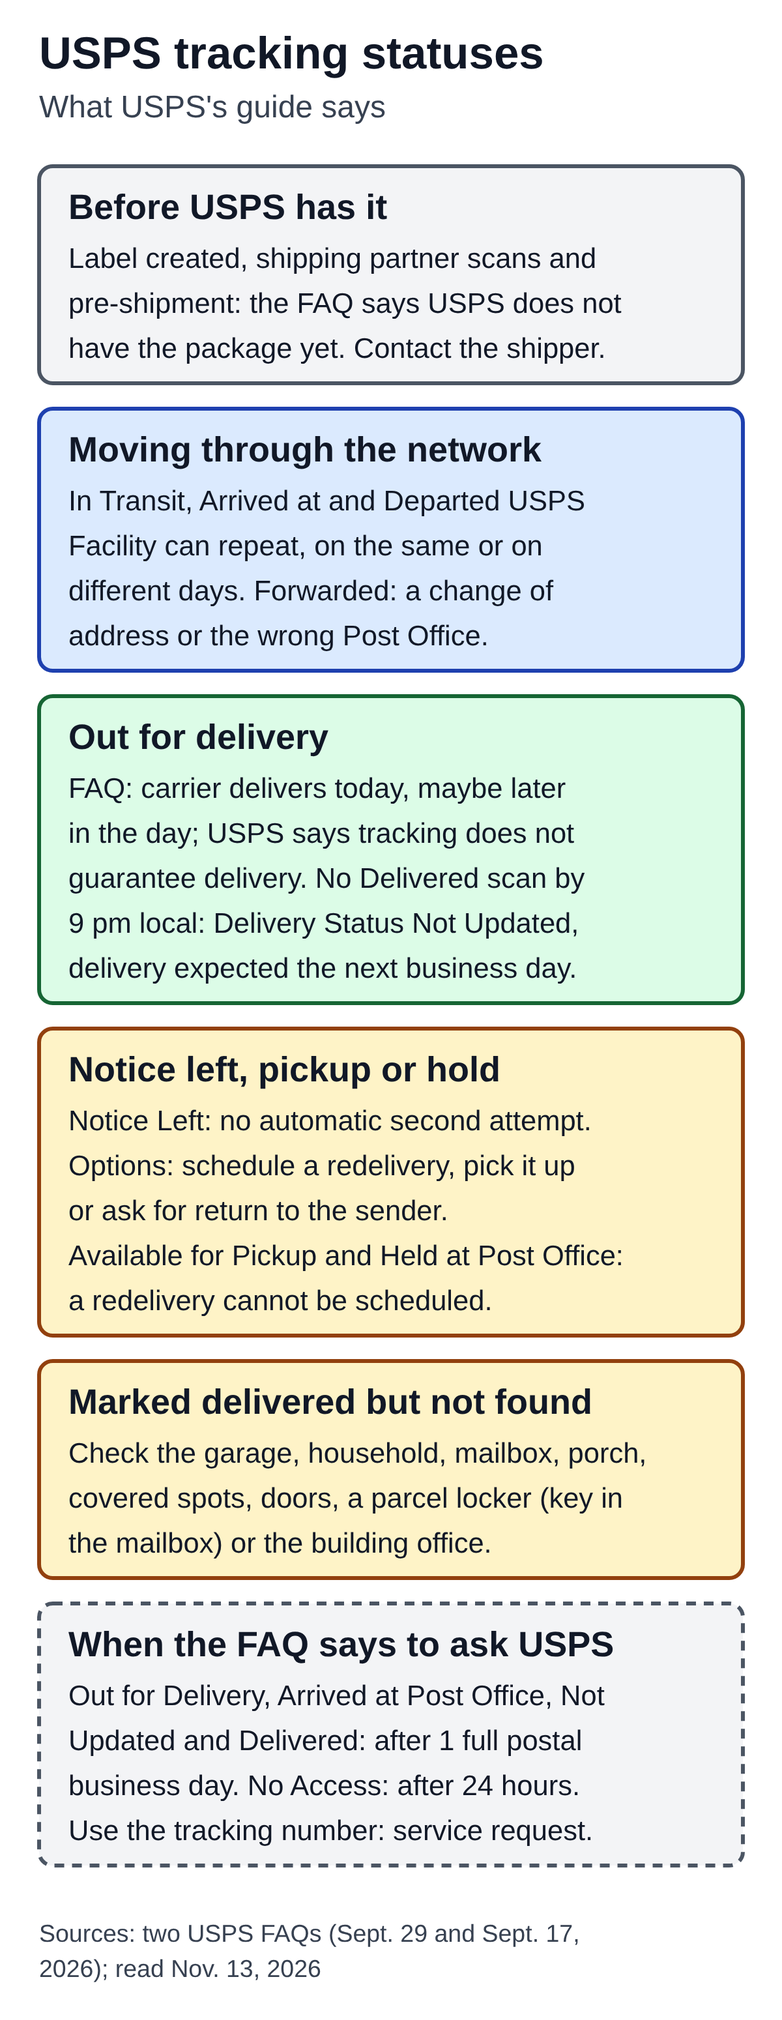
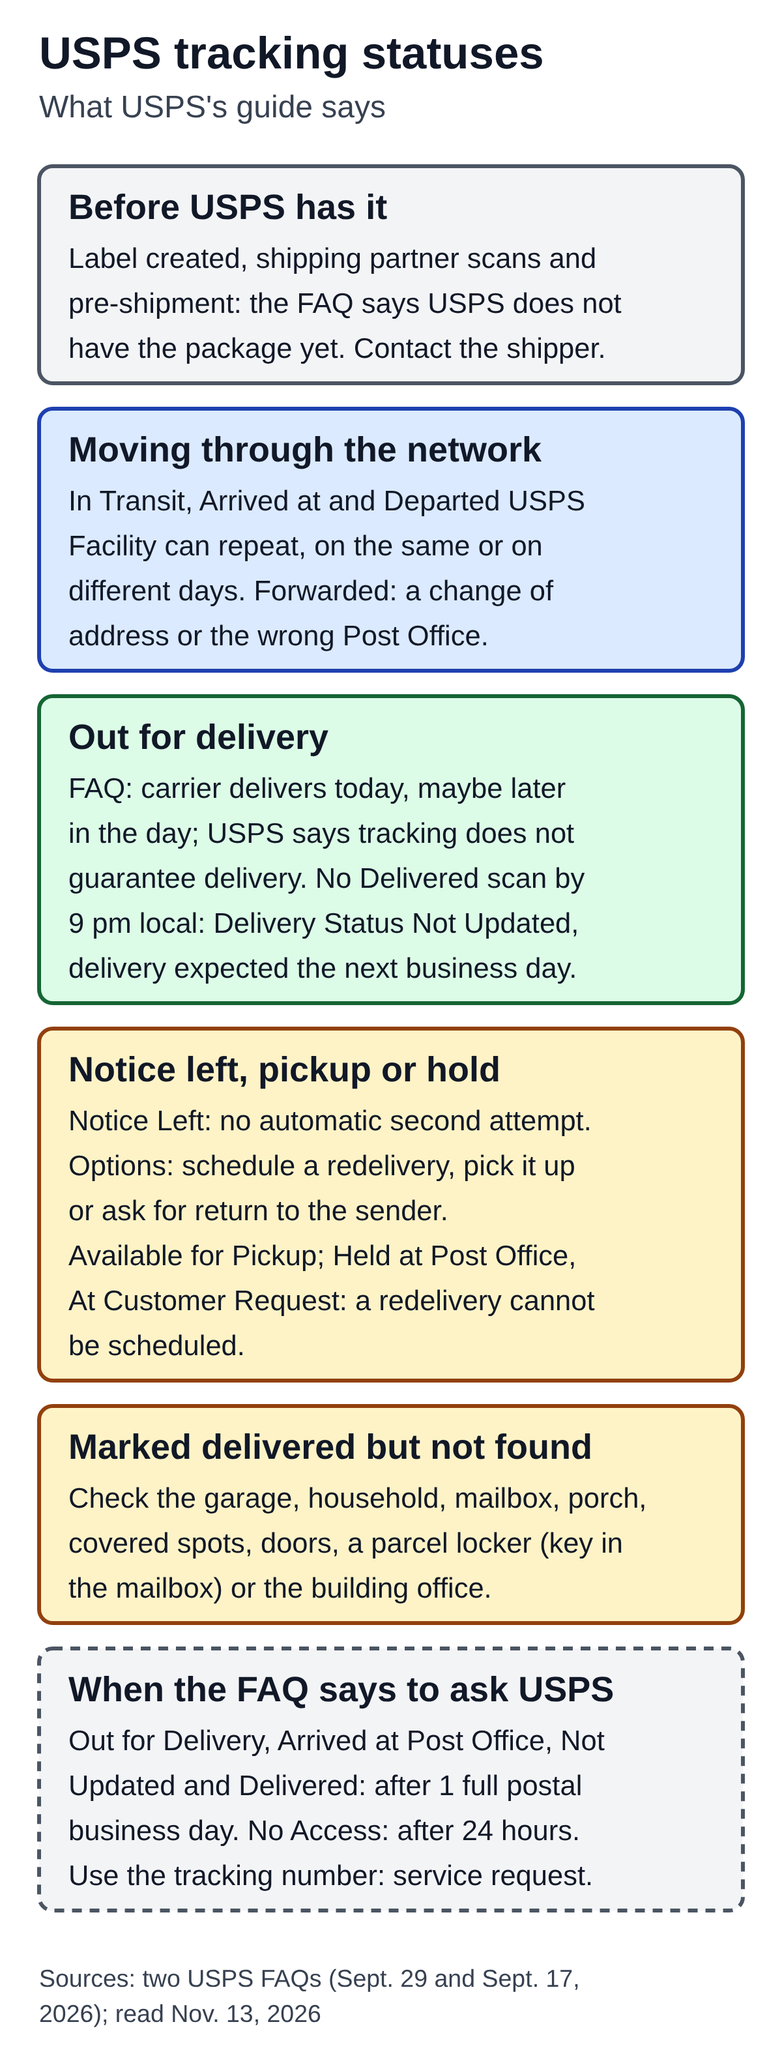
Apply Gate 2 re-check fixes: full Held status name; minor passport scope
Tracking: diagram, alt and body use "Held at Post Office, At Customer Request".
Passport: diagram and alt say a passport issued under 16 is not renewable; body
notes USPS.com's minor sentence gives no age and limits the reading to under 16.

Claude-Session: https://claude.ai/code/session_01BXtGEA3Qzg6u2ejRb8jbFU

diff --git a/content/drafts/usps-passport-services-what-the-post-office-does.md b/content/drafts/usps-passport-services-what-the-post-office-does.md
@@ -8,7 +8,7 @@ status: draft
 date: 2026-11-13
 internal_link_candidates: real-id-to-fly-what-tsa-accepts (linked once in the body; decide at Gate 2)
 image: assets/optimized/usps-passport-services-what-the-post-office-does.png
-image_alt: "Diagram of what the USPS pages say about passport services. What passport Post Offices do: thousands of Post Offices accept first-time passport applications and most of those also take photos; the Postal Service reviews the application and forwards it to the State Department. What it does not do: does not issue passports or hand them out, because the State Department mails them; no renewals in person according to USPS.com; the FAQ points renewals, lost or stolen passports and name changes to the State Department. Apply in person if (FAQ list): first passport; child under 16; the last one issued under 16 or over 15 years ago, or lost, stolen or damaged; or a name change you cannot document. Renew by mail or online: USPS.com says if you can renew by mail or online, you must, and you cannot renew in person; expedited renewal service is by mail; for urgent travel USPS.com points to a State Department appointment; a child's passport is not renewable. Appointments: USPS.com says book online, at a lobby kiosk or a retail counter, with limited walk-in hours at select locations; the FAQ adds booking by phone; renewals cannot be booked in the scheduler. After you apply: processing starts when the State Department gets the application; it mails the passport, sometimes apart from your documents. Sources: USPS.com passports page (no date) and USPS FAQ (Nov. 5, 2026), read Nov. 13, 2026; State Department pages not read here, so check them."
+image_alt: "Diagram of what the USPS pages say about passport services. What passport Post Offices do: thousands of Post Offices accept first-time passport applications and most of those also take photos; the Postal Service reviews the application and forwards it to the State Department. What it does not do: does not issue passports or hand them out, because the State Department mails them; no renewals in person according to USPS.com; the FAQ points renewals, lost or stolen passports and name changes to the State Department. Apply in person if (FAQ list): first passport; child under 16; the last one issued under 16 or over 15 years ago, or lost, stolen or damaged; or a name change you cannot document. Renew by mail or online: USPS.com says if you can renew by mail or online, you must, and you cannot renew in person; expedited renewal service is by mail; for urgent travel USPS.com points to a State Department appointment; a passport issued under 16 is not renewable. Appointments: USPS.com says book online, at a lobby kiosk or a retail counter, with limited walk-in hours at select locations; the FAQ adds booking by phone; renewals cannot be booked in the scheduler. After you apply: processing starts when the State Department gets the application; it mails the passport, sometimes apart from your documents. Sources: USPS.com passports page (no date) and USPS FAQ (Nov. 5, 2026), read Nov. 13, 2026; State Department pages not read here, so check them."
 ---
 
 # USPS Passport Services: What the Post Office Does and Does Not Handle
@@ -17,7 +17,7 @@ image_alt: "Diagram of what the USPS pages say about passport services. What pas
 
 This article covers two USPS pages: the USPS.com page "Passports" (the page titled "Passport Appointments, Renewals, & Photo Services"; no update date shown) and the USPS FAQ "U.S. Passports - The Basics" (Article 000007488, dated November 5, 2026). The wording is as of November 13, 2026. The passport rules belong to the State Department. Its pages (travel.state.gov) could not be read in full for this article, so everything below is what USPS says, not what the State Department says, and eligibility details and exceptions should be checked there: see the State Department's pages on [applying in person as an adult](https://travel.state.gov/en/passports/apply/adults.html) and [renewing by mail](https://travel.state.gov/en/passports/renew-replace/mail.html) (linked as pointers; this article does not rely on their text). The pages list fees; this article gives no prices. It does not cover expedited processing in detail, passport cards beyond one line, lost or stolen passports, international travel rules, or processing times.
 
-![Diagram of what the USPS pages say about passport services. What passport Post Offices do: thousands of Post Offices accept first-time passport applications and most of those also take photos; the Postal Service reviews the application and forwards it to the State Department. What it does not do: does not issue passports or hand them out, because the State Department mails them; no renewals in person according to USPS.com; the FAQ points renewals, lost or stolen passports and name changes to the State Department. Apply in person if (FAQ list): first passport; child under 16; the last one issued under 16 or over 15 years ago, or lost, stolen or damaged; or a name change you cannot document. Renew by mail or online: USPS.com says if you can renew by mail or online, you must, and you cannot renew in person; expedited renewal service is by mail; for urgent travel USPS.com points to a State Department appointment; a child's passport is not renewable. Appointments: USPS.com says book online, at a lobby kiosk or a retail counter, with limited walk-in hours at select locations; the FAQ adds booking by phone; renewals cannot be booked in the scheduler. After you apply: processing starts when the State Department gets the application; it mails the passport, sometimes apart from your documents. Sources: USPS.com passports page (no date) and USPS FAQ (Nov. 5, 2026), read Nov. 13, 2026; State Department pages not read here, so check them.](assets/optimized/usps-passport-services-what-the-post-office-does.png)
+![Diagram of what the USPS pages say about passport services. What passport Post Offices do: thousands of Post Offices accept first-time passport applications and most of those also take photos; the Postal Service reviews the application and forwards it to the State Department. What it does not do: does not issue passports or hand them out, because the State Department mails them; no renewals in person according to USPS.com; the FAQ points renewals, lost or stolen passports and name changes to the State Department. Apply in person if (FAQ list): first passport; child under 16; the last one issued under 16 or over 15 years ago, or lost, stolen or damaged; or a name change you cannot document. Renew by mail or online: USPS.com says if you can renew by mail or online, you must, and you cannot renew in person; expedited renewal service is by mail; for urgent travel USPS.com points to a State Department appointment; a passport issued under 16 is not renewable. Appointments: USPS.com says book online, at a lobby kiosk or a retail counter, with limited walk-in hours at select locations; the FAQ adds booking by phone; renewals cannot be booked in the scheduler. After you apply: processing starts when the State Department gets the application; it mails the passport, sometimes apart from your documents. Sources: USPS.com passports page (no date) and USPS FAQ (Nov. 5, 2026), read Nov. 13, 2026; State Department pages not read here, so check them.](assets/optimized/usps-passport-services-what-the-post-office-does.png)
 
 ## What the Post Office does, and what it does not
 
@@ -31,7 +31,7 @@ USPS.com opens with a shorter version: "Thousands of Post Offices™ accept firs
 
 The FAQ lists when you must apply in person using Form DS-11. It is enough if at least one of these is true: you are applying for your first U.S. passport; you are under age 16; your previous passport was issued when you were under 16; your previous passport was lost, stolen or damaged; your previous passport was issued more than 15 years ago; or your name has changed since the passport was issued and you cannot legally document the name change. It adds that if none of those apply, "you may be eligible to Renew by Mail using Form DS-82." The State Department's page on [applying in person as an adult](https://travel.state.gov/en/passports/apply/adults.html) is the place to check the full eligibility rules and exceptions; this article could not read it.
 
-For minors, the FAQ says a child under 16 must apply in person with both parents or guardians, who must show their relationship to the child, present acceptable identification and give consent. A 16- or 17-year-old must appear in person and may need a parent or guardian to show photo ID and establish parental consent. USPS.com says "Passports for children under 16 have special requirements," and that a minor's passport "cannot be 'renewed'": each time it expires, you submit a new first-time application in person.
+For minors, the FAQ says a child under 16 must apply in person with both parents or guardians, who must show their relationship to the child, present acceptable identification and give consent. A 16- or 17-year-old must appear in person and may need a parent or guardian to show photo ID and establish parental consent. USPS.com says "Passports for children under 16 have special requirements." Separately, in its renewal text, it says a minor's passport "cannot be 'renewed'" and that each time it expires you submit a new first-time application in person. That sentence does not give an age. The page's renew-by-mail conditions require a passport issued at age 16 or older, and the FAQ's in-person list includes a previous passport issued under 16, so this article reads the sentence as covering passports issued to children under 16 and does not extend it further.
 
 The two pages word the age line a little differently. USPS.com's first-time section says that if you "are 16 or under" you need to apply in person, while the FAQ says "under age 16" and then lists 16- and 17-year-olds separately as also having to appear in person. This article does not resolve that; it shows both wordings.
 

diff --git a/content/drafts/usps-tracking-status-what-it-means.md b/content/drafts/usps-tracking-status-what-it-means.md
@@ -8,7 +8,7 @@ status: draft
 date: 2026-11-13
 internal_link_candidates: usps-informed-delivery-how-it-works, usps-hold-mail-how-it-works, usps-missing-mail-search-how-it-works, usps-certified-mail-how-it-works, how-to-address-an-envelope-usps, usps-mail-forwarding-how-long (all linked in the body; decide at Gate 2)
 image: assets/optimized/usps-tracking-status-what-it-means.png
-image_alt: "Diagram of what the USPS tracking status guide says. Before USPS has it: label created, shipping partner and pre-shipment statuses; the FAQ says USPS does not have the package yet, so contact the shipper. Moving through the network: In Transit, Arrived at USPS Facility and Departed USPS Facility can repeat, on the same or on different days; Forwarded means a change of address or the wrong Post Office. Out for delivery: the FAQ says a carrier delivers it today, maybe later in the day, and USPS says tracking does not guarantee delivery; no Delivered scan by 9 pm local time gives Delivery Status Not Updated, with delivery expected the next business day. Notice left, pickup or hold: Notice Left has no automatic second attempt, and the options are to schedule a redelivery, pick it up or ask for return to the sender; for Available for Pickup and Held at Post Office a redelivery cannot be scheduled. Marked delivered but not found: check the garage, household, mailbox, porch, covered spots, doors, a parcel locker (key in the mailbox) or the building office. When the FAQ says to ask USPS: Out for Delivery, Arrived at Post Office, Delivery Status Not Updated and Delivered after 1 full postal business day; No Access to Delivery Location after 24 hours; use the tracking number to submit a service request. Sources: two USPS FAQs dated Sept. 29 and Sept. 17, 2026, read Nov. 13, 2026."
+image_alt: "Diagram of what the USPS tracking status guide says. Before USPS has it: label created, shipping partner and pre-shipment statuses; the FAQ says USPS does not have the package yet, so contact the shipper. Moving through the network: In Transit, Arrived at USPS Facility and Departed USPS Facility can repeat, on the same or on different days; Forwarded means a change of address or the wrong Post Office. Out for delivery: the FAQ says a carrier delivers it today, maybe later in the day, and USPS says tracking does not guarantee delivery; no Delivered scan by 9 pm local time gives Delivery Status Not Updated, with delivery expected the next business day. Notice left, pickup or hold: Notice Left has no automatic second attempt, and the options are to schedule a redelivery, pick it up or ask for return to the sender; for Available for Pickup and Held at Post Office, At Customer Request a redelivery cannot be scheduled. Marked delivered but not found: check the garage, household, mailbox, porch, covered spots, doors, a parcel locker (key in the mailbox) or the building office. When the FAQ says to ask USPS: Out for Delivery, Arrived at Post Office, Delivery Status Not Updated and Delivered after 1 full postal business day; No Access to Delivery Location after 24 hours; use the tracking number to submit a service request. Sources: two USPS FAQs dated Sept. 29 and Sept. 17, 2026, read Nov. 13, 2026."
 ---
 
 # USPS Tracking Status: What Each One Means and What USPS Says to Do
@@ -17,7 +17,7 @@ image_alt: "Diagram of what the USPS tracking status guide says. Before USPS has
 
 This article covers two USPS FAQ pages: "Where is my package? Tracking Status Help" (Article 000006077, dated September 29, 2026) and "USPS Tracking® - The Basics" (Article 000007991, dated September 17, 2026). The wording is as of November 13, 2026. The status guide lists 27 statuses in five groups; this article follows those groups and spends most of its space on the statuses where the guide tells you to do something. It gives no prices. It does not cover international tracking, claims and refunds, how a service request is handled, or other carriers.
 
-![Diagram of what the USPS tracking status guide says. Before USPS has it: label created, shipping partner and pre-shipment statuses; the FAQ says USPS does not have the package yet, so contact the shipper. Moving through the network: In Transit, Arrived at USPS Facility and Departed USPS Facility can repeat, on the same or on different days; Forwarded means a change of address or the wrong Post Office. Out for delivery: the FAQ says a carrier delivers it today, maybe later in the day, and USPS says tracking does not guarantee delivery; no Delivered scan by 9 pm local time gives Delivery Status Not Updated, with delivery expected the next business day. Notice left, pickup or hold: Notice Left has no automatic second attempt, and the options are to schedule a redelivery, pick it up or ask for return to the sender; for Available for Pickup and Held at Post Office a redelivery cannot be scheduled. Marked delivered but not found: check the garage, household, mailbox, porch, covered spots, doors, a parcel locker (key in the mailbox) or the building office. When the FAQ says to ask USPS: Out for Delivery, Arrived at Post Office, Delivery Status Not Updated and Delivered after 1 full postal business day; No Access to Delivery Location after 24 hours; use the tracking number to submit a service request. Sources: two USPS FAQs dated Sept. 29 and Sept. 17, 2026, read Nov. 13, 2026.](assets/optimized/usps-tracking-status-what-it-means.png)
+![Diagram of what the USPS tracking status guide says. Before USPS has it: label created, shipping partner and pre-shipment statuses; the FAQ says USPS does not have the package yet, so contact the shipper. Moving through the network: In Transit, Arrived at USPS Facility and Departed USPS Facility can repeat, on the same or on different days; Forwarded means a change of address or the wrong Post Office. Out for delivery: the FAQ says a carrier delivers it today, maybe later in the day, and USPS says tracking does not guarantee delivery; no Delivered scan by 9 pm local time gives Delivery Status Not Updated, with delivery expected the next business day. Notice left, pickup or hold: Notice Left has no automatic second attempt, and the options are to schedule a redelivery, pick it up or ask for return to the sender; for Available for Pickup and Held at Post Office, At Customer Request a redelivery cannot be scheduled. Marked delivered but not found: check the garage, household, mailbox, porch, covered spots, doors, a parcel locker (key in the mailbox) or the building office. When the FAQ says to ask USPS: Out for Delivery, Arrived at Post Office, Delivery Status Not Updated and Delivered after 1 full postal business day; No Access to Delivery Location after 24 hours; use the tracking number to submit a service request. Sources: two USPS FAQs dated Sept. 29 and Sept. 17, 2026, read Nov. 13, 2026.](assets/optimized/usps-tracking-status-what-it-means.png)
 
 ## What USPS Tracking does and does not promise
 

diff --git a/editorial/qa/usps-passport-services-what-the-post-office-does.md b/editorial/qa/usps-passport-services-what-the-post-office-does.md
@@ -59,3 +59,7 @@ One H1, H2 sections, no table (the sections are prose), a bulleted list only for
 **Open point (not resolved, not stated in the article):** the paraphrased State Department page mentions an appointment rule for travel in under 3 weeks (a window of 14 calendar days), while USPS.com's own heading is "Urgent Travel in Less than 10 Weeks". The paraphrase is unverified, so this may be a summarizing error or a real difference between the pages. That is why the article repeats neither threshold. Re-check both State Department pages directly (a person or a browser that passes the challenge) before publishing, and add the comparison to the article if confirmed.
 
 Image: re-rendered (render check `[]`, viewed in crops); C2PA stripped on the device; PNG 596,737 bytes (`ee4591c3…`), SVG 4,683 bytes (`9b330dc1…`), hashes equal the originals. Front-matter alt equals the body alt (script). Changed parts only: the lead, the meta description, the scope paragraph, two sentences in the role and in-person sections, the renewal sentence, the new expedited section, the Sources list, the first and fourth diagram cards, the footer and the alt.
+
+## Gate 2 re-check on `8953bd9` (2026-11-13)
+
+FIX: "A child's passport is not renewable" (diagram card and alt) read as covering every minor. USPS.com's wording is "A minor's passport cannot be 'renewed'. Instead, each time a minor's passport expires, you must submit a new, first-time passport application in person" and it gives no age in that sentence; its minors heading says "Passports for children under 16 have special requirements"; its renew-by-mail conditions require a passport "issued when you were age 16 or older"; the FAQ's in-person list includes a previous passport issued under 16 (all found at Gate 1). Fixed: the diagram card and the alt now say "A passport issued under 16 is not renewable"; the body keeps USPS's words ("a minor's passport"), says the sentence gives no age, and says the article reads it as covering passports issued to children under 16 and does not extend it further. No other body sentence says a child's or minor's passport is not renewable. The reviewer confirmed the participating Post Offices and photos scope, the expedited/urgent split and the State Department links; the urgent travel dates stay out, pointing to the State Department. Image re-rendered (render check `[]`), C2PA stripped; PNG 600,000 bytes (`686f50fc…`), SVG 4,691 bytes (`eea77db5…`), hashes equal the originals; front-matter alt equals the body alt.

diff --git a/docs/decision-log.md b/docs/decision-log.md
@@ -1475,3 +1475,7 @@ Both drafts, source notes, QA records (Gate 1: 20 of 20 and 19 of 19 claims; scr
 Tracking status: the reviewer could not open the two USPS FAQs and so could not check the waits and redelivery conditions; recorded as held, not as an independent PASS. Two wording fixes: the diagram and alt card now separate Notice Left (options) from Available for Pickup and Held at Post Office (a redelivery cannot be scheduled); the lead and the Out for Delivery section and diagram now put the FAQ's "delivered by a carrier today" beside "USPS Tracking does not expedite or guarantee delivery".
 
 Passport: FIX. The lead, meta, diagram and alt are limited to "thousands of Post Offices ... most of those" for applications and photos; expedited renewal (by mail, USPS.com) is separated from urgent travel and life-or-death cases (State Department appointments) with no time thresholds stated; two State Department pages the reviewer found are linked as pointers. Claude's access to them was again blocked (Cloudflare 403); a summarizing fetch gave a paraphrase of the mail-renewal page only, which is not used for claims. The paraphrase suggests the State Department's urgent-travel appointment window may differ from USPS.com's "less than 10 weeks"; unverified, so no threshold is stated and the re-check must compare the two pages directly.
+
+## 2026-11-13 (KST, late night) — Gate 2 re-check on `8953bd9`: two scope fixes
+
+Tracking status: the diagram and alt now use the full status name "Held at Post Office, At Customer Request". Passport: "A child's passport is not renewable" became "A passport issued under 16 is not renewable" in the diagram and alt, and the body says USPS.com's "minor's passport" sentence gives no age and is read as covering passports issued to children under 16 only. Recorded in both QA files. The tracking post is still held for an independent FAQ check; the State Department urgent-travel threshold is still to be compared directly before publishing.

diff --git a/editorial/qa/usps-tracking-status-what-it-means.md b/editorial/qa/usps-tracking-status-what-it-means.md
@@ -59,3 +59,7 @@ One H1, H2 sections, two 3-column tables (post-only table font at publishing), p
 2. **"Out for Delivery" reads as a promise.** The lead now quotes S2's "USPS Tracking does not expedite or guarantee delivery" in its first sentence, next to the "will be delivered by a carrier today" quote. The Out for Delivery section says it is the guide's description, not a delivery promise, and repeats that delivery inside an Expected Delivery Window "is not guaranteed". The diagram card now says "FAQ: carrier delivers today, maybe later in the day; USPS says tracking does not guarantee delivery", and the alt matches. The meta description now says tracking does not guarantee delivery (151 characters).
 
 Image: re-rendered (render check `[]`, viewed in crops); C2PA stripped on the device; PNG 566,162 bytes (`61daf868…`), SVG 4,468 bytes (`9753a4bd…`), hashes equal the originals. Front-matter alt equals the body alt (script). **Open:** the reviewer still needs to see the FAQ text (the verbatim lines are in `research/sources/usps-tracking-status-what-it-means.md`); both FAQs are re-read right before any publishing.
+
+## Gate 2 re-check on `8953bd9` (2026-11-13)
+
+FIX: the diagram card and alt said "Held at Post Office", which can read as every held status. The FAQ's entry is "Held at Post Office, At Customer Request". Fixed: the card, the alt (both copies) and the body sentence after the table now use the full status name. Checked again on the page: the redelivery-cannot-be-scheduled sentence is in "Available for Pickup" and "Held at Post Office, At Customer Request" only. The Notice Left / Available for Pickup split and the non-guarantee wording were confirmed by the reviewer. Image re-rendered (render check `[]`), C2PA stripped; PNG 576,766 bytes (`ceca970a…`), SVG 4,545 bytes (`b4bb6551…`), hashes equal the originals; front-matter alt equals the body alt. The earlier hold (reviewer could not open the FAQs) is unchanged.
